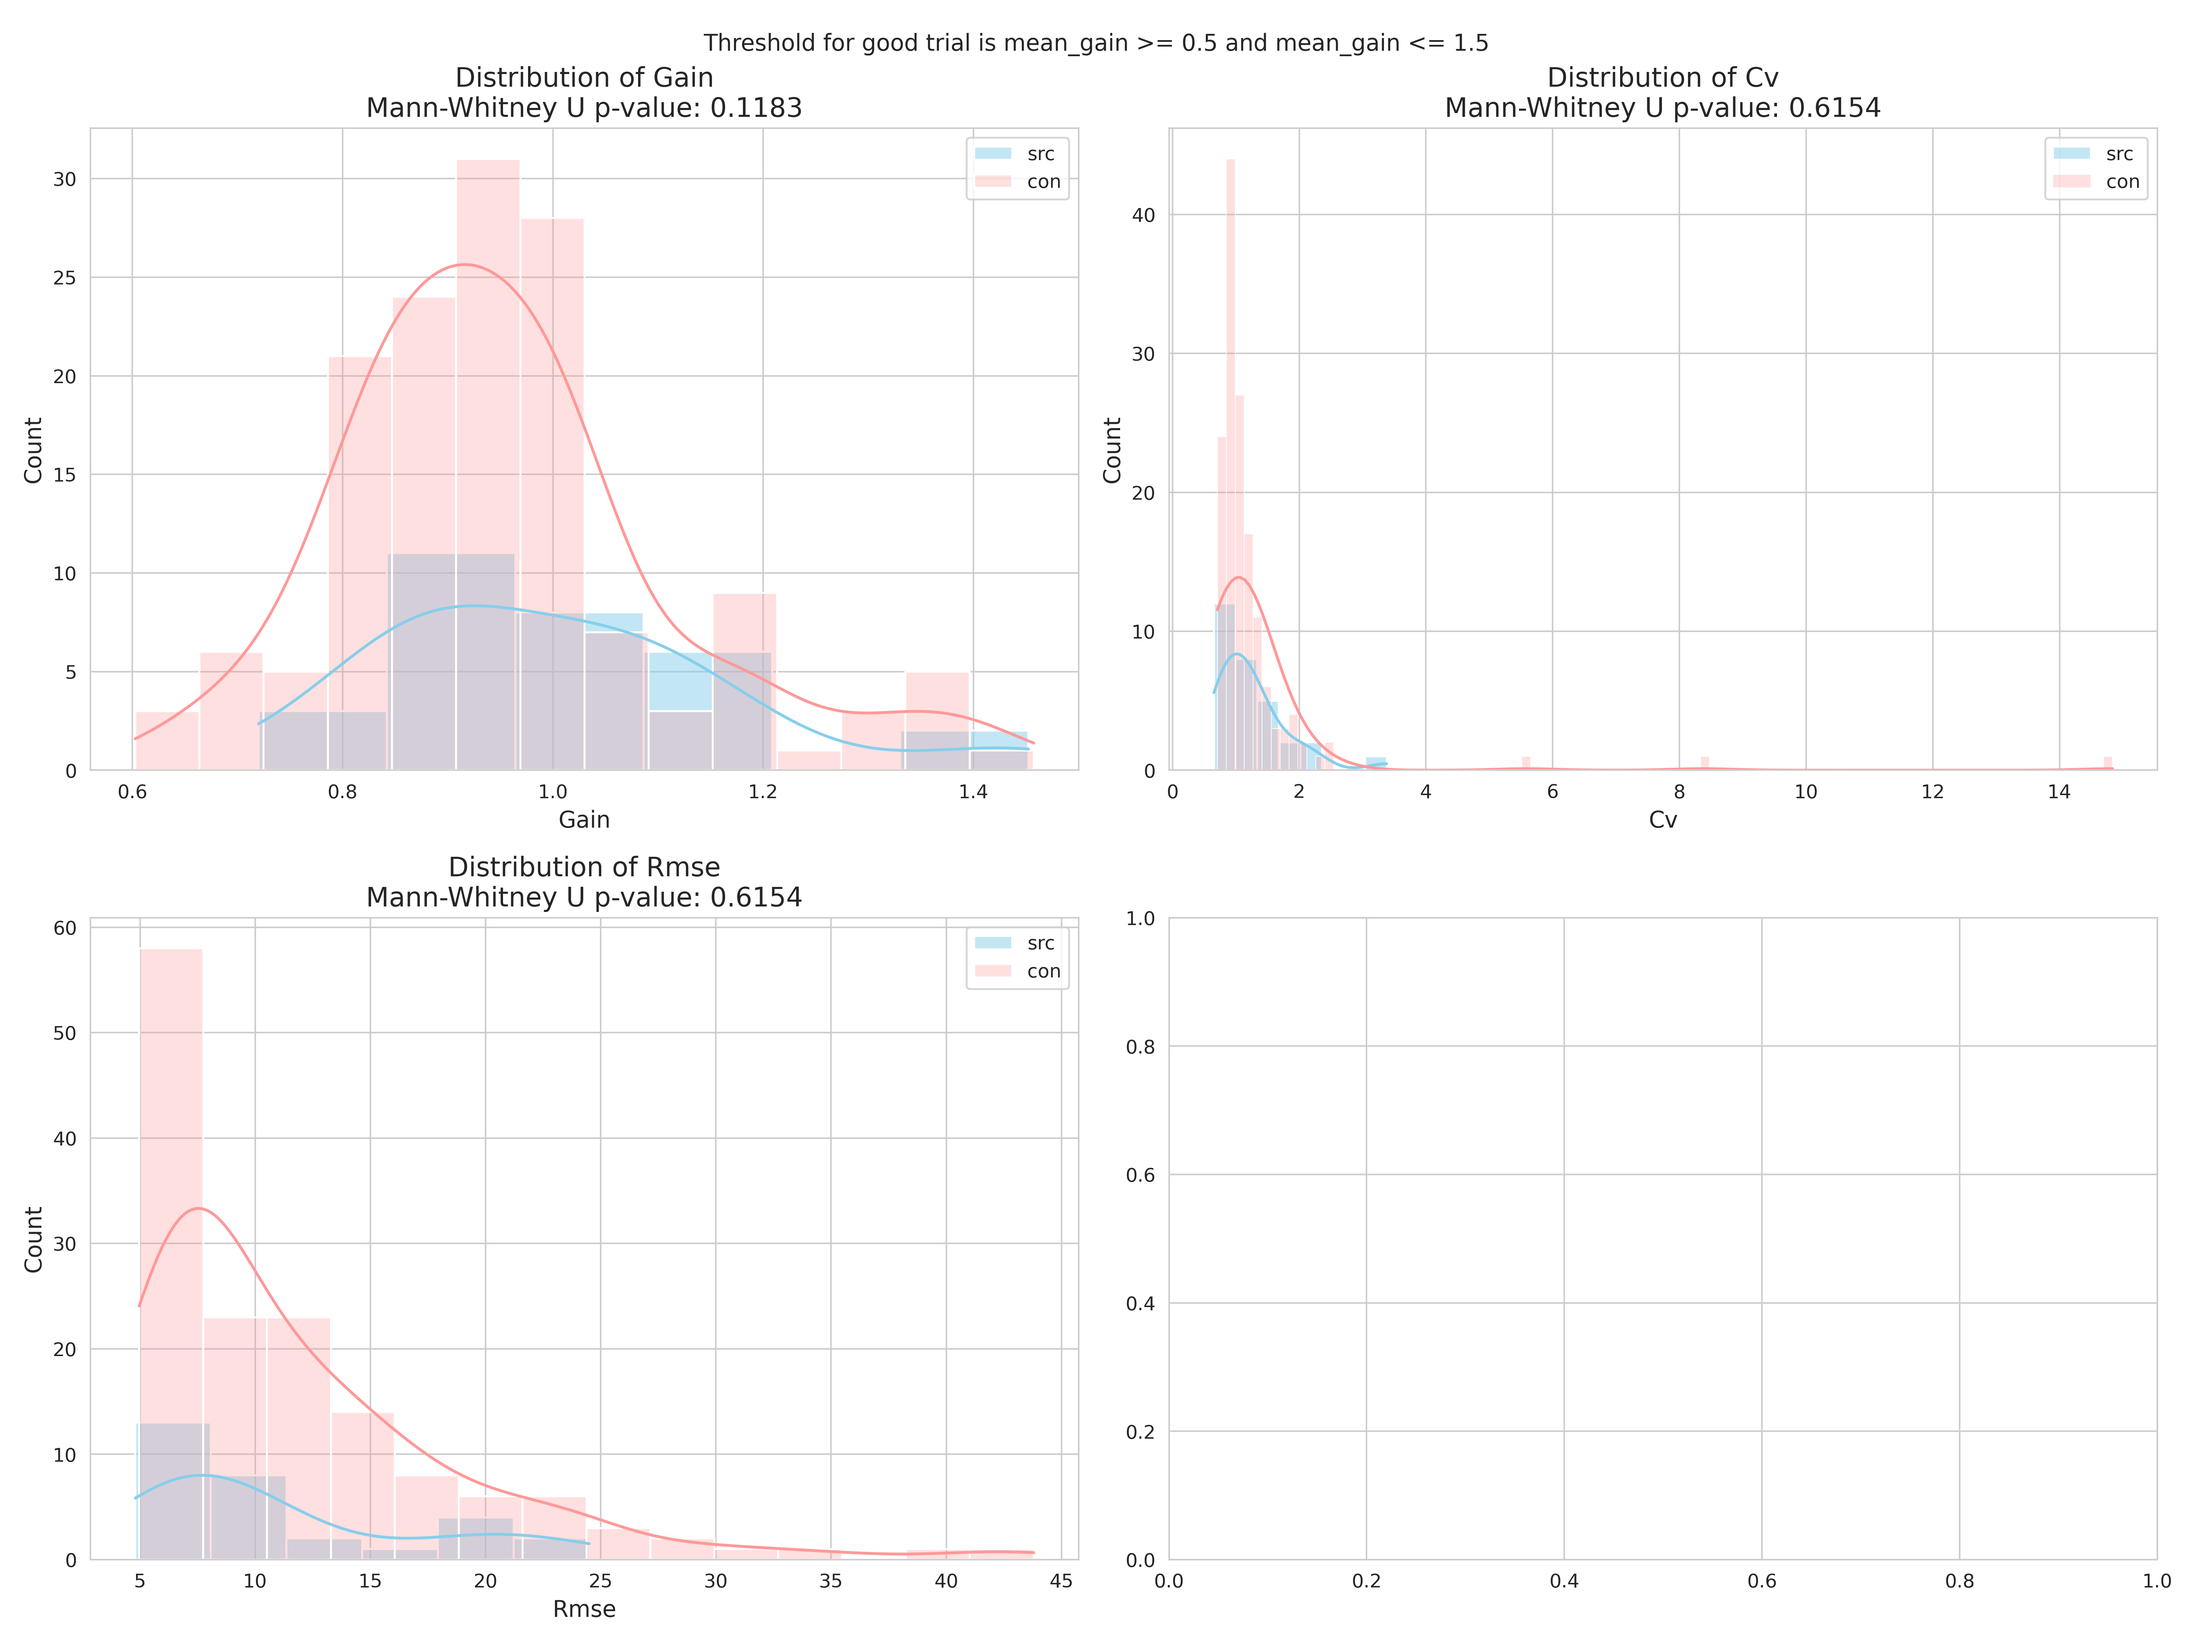
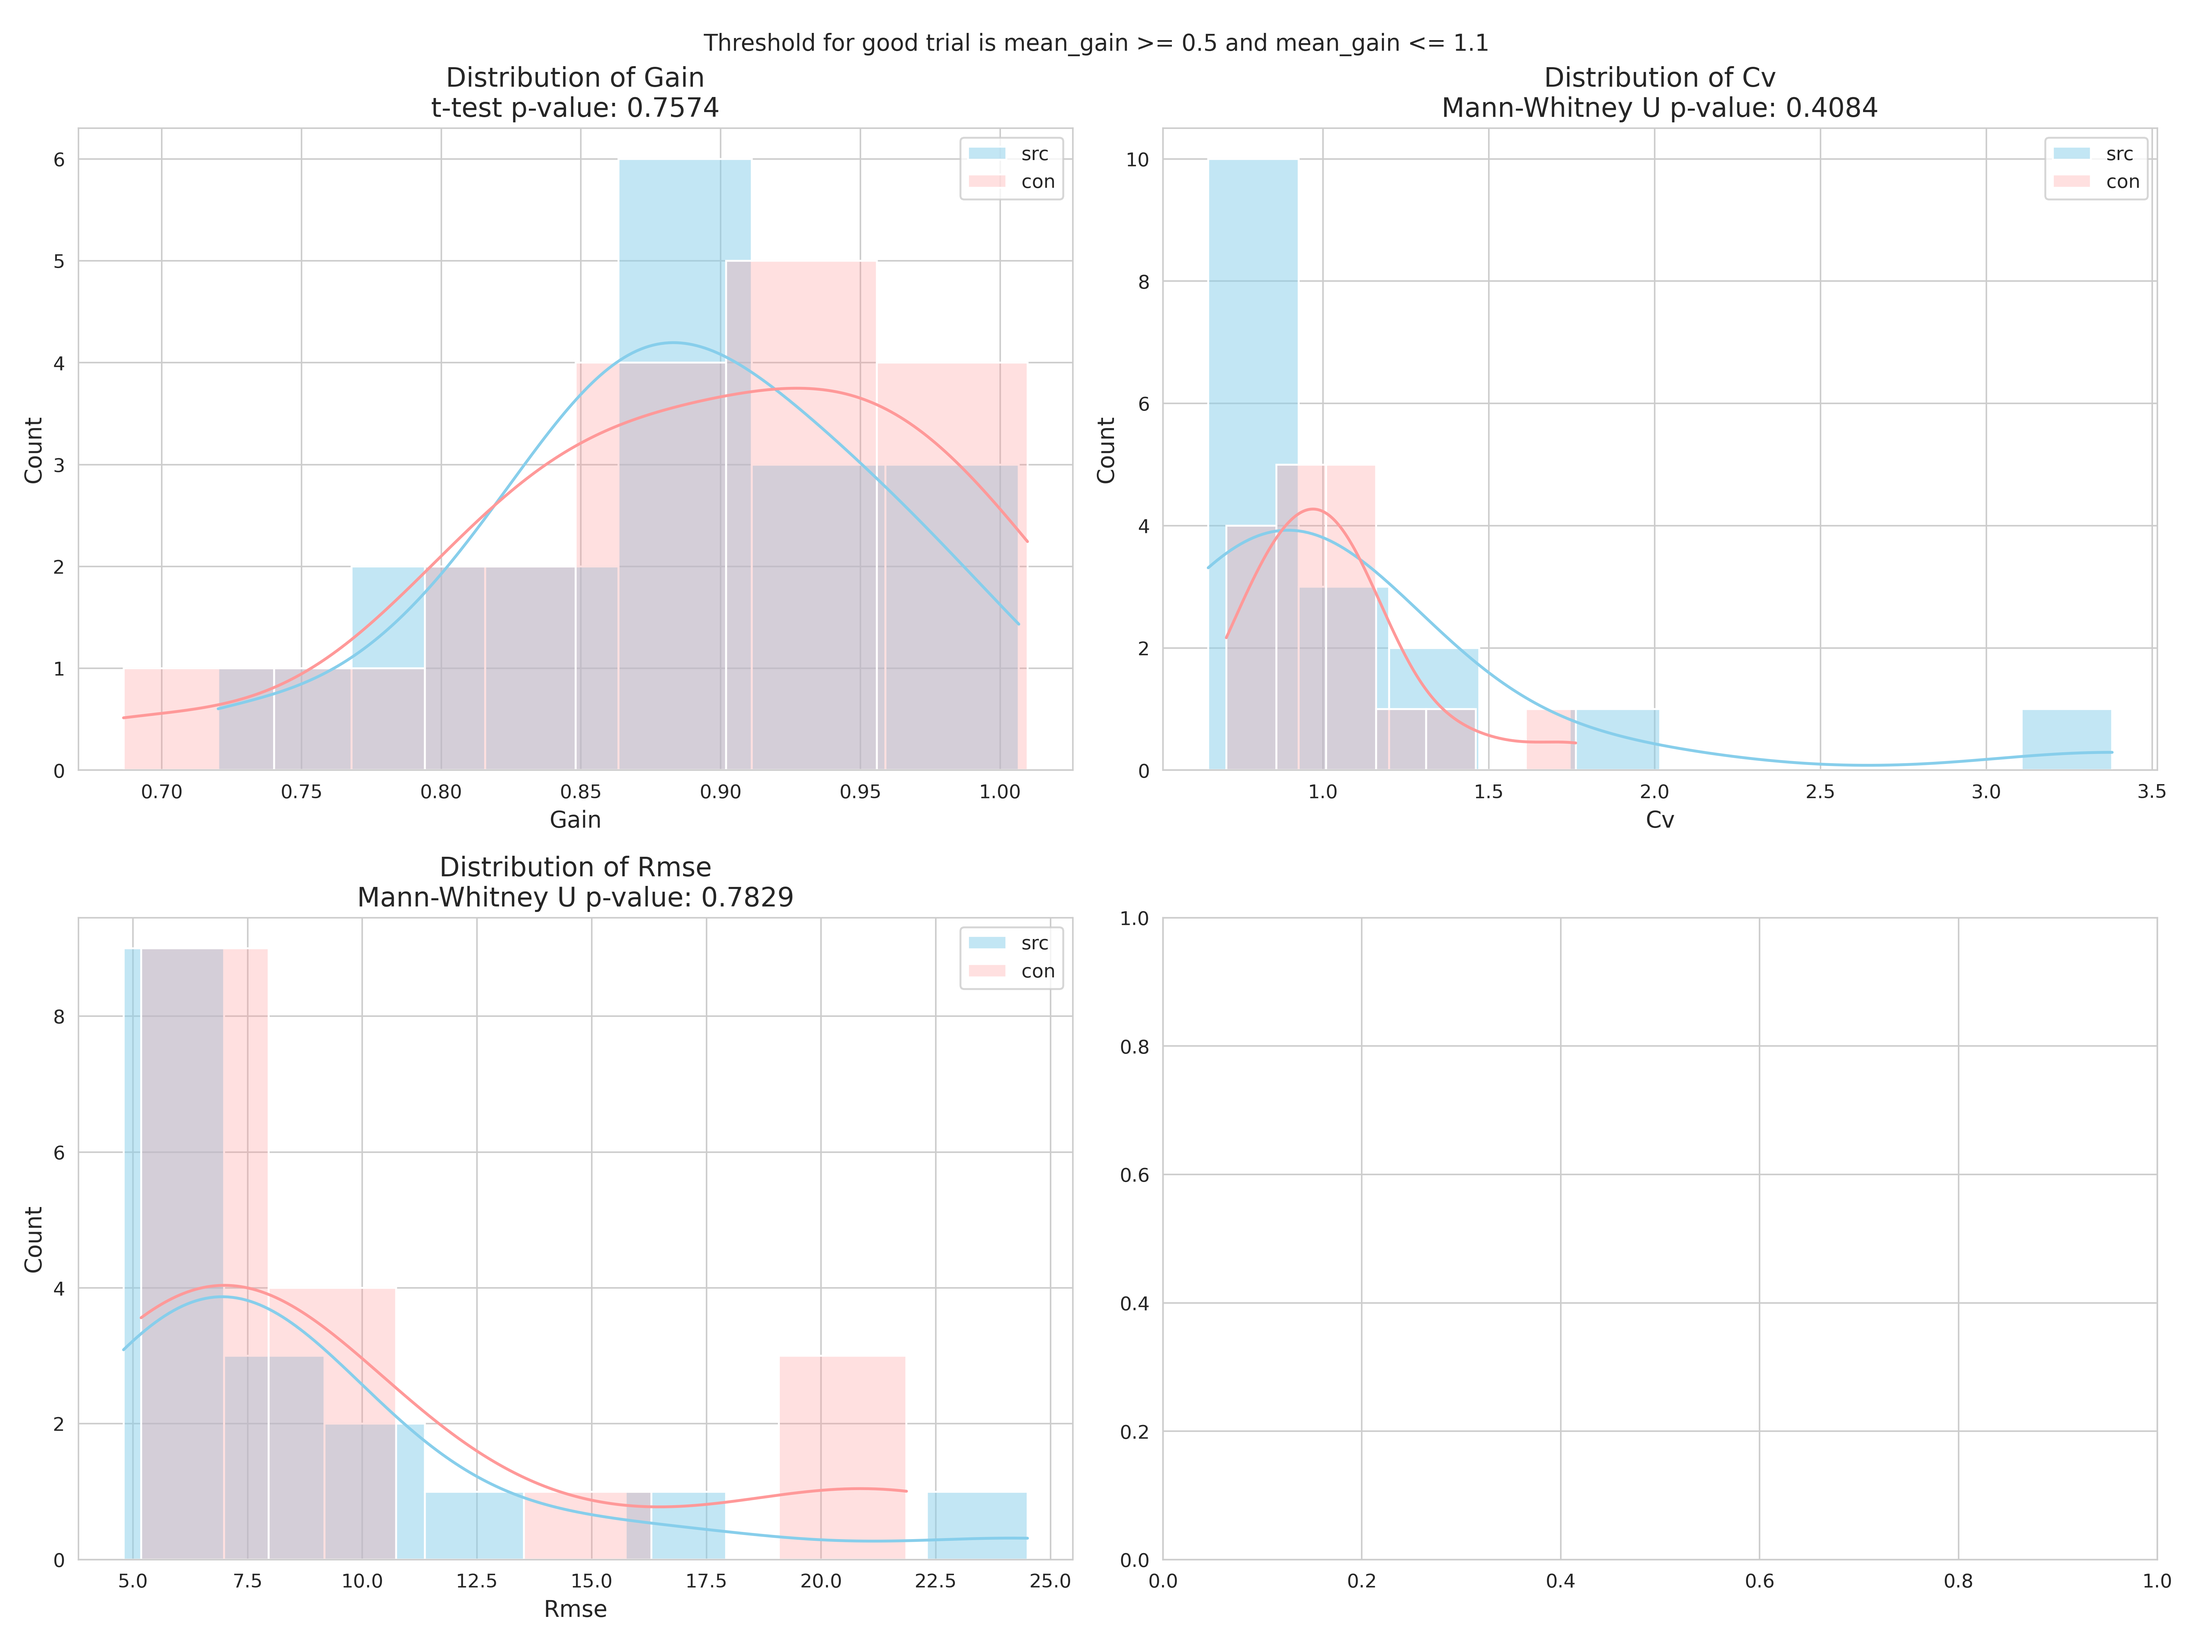
ADD: start VOR

diff --git a/vr_voms_vor.py b/vr_voms_vor.py
@@ -1,0 +1,148 @@
+import os
+import numpy as np
+import pandas as pd
+import matplotlib.pyplot as plt
+from mpl_toolkits.mplot3d import Axes3D
+from scipy.signal import find_peaks, square, savgol_filter
+from sklearn.metrics import mean_squared_error, r2_score
+from scipy.optimize import curve_fit
+from colorama import Fore, Style
+from tqdm import tqdm
+from matplotlib.animation import FuncAnimation
+from PIL import Image, ImageSequence
+from sys import argv
+from matplotlib.colors import ListedColormap
+import matplotlib.animation as animation
+from vr_voms_utils import find_files, az_el, az_el_dot_world, az_el_dot_local, detect_square_wave_periods, extract_con_and_control
+import argparse
+from scipy.spatial.distance import cdist
+
+plt.rcParams.update({
+    'font.size': 14,
+    'font.weight': 'bold',
+    'axes.labelweight': 'bold',
+    'axes.titlesize': 14,
+    'axes.titleweight': 'bold',
+    'legend.fontsize': 14,
+    'legend.title_fontsize': 14,
+    'xtick.labelsize': 14,
+    'ytick.labelsize': 14,
+    'lines.linewidth': 2
+})
+
+class vrVoms():
+    def __init__(self,check_trials=False, methods_plot=False) -> None:
+        print('vrVoms VOR Class')
+        self.all_files_dict = find_files(os.path.join(os.getcwd(),'2023_2024'), "experiment_data_pID")
+        self.check_trials = check_trials
+        self.methods_plot = methods_plot
+        self.src, self.control = extract_con_and_control()
+        prefix = '/home/brianszekely/Desktop/ProjectsResearch/murray_lab/vr_eye/2023_2024/'
+        self.src = [prefix + file_name for file_name in self.src]
+        self.control = [prefix + file_name for file_name in self.control]
+
+    def parse_condition_per(self,file):
+            data = pd.read_csv(file)
+            if data['Experiment'].iloc[0] == "VOR":
+                self.exp_df = data
+                all_vor = self.VOR(file)
+                # plt.figure()
+                # plt.plot(self.exp_df['CyclopeanEyeDirection.x'],label='hor')
+                # plt.plot(self.exp_df['CyclopeanEyeDirection.y'],label='vert')
+                # plt.plot(self.exp_df['CyclopeanEyeDirection.z'],label='z')
+                # plt.legend()
+                # plt.show()
+                # plt.close()
+                return all_vor
+            else:
+                return None
+    
+    def VOR(self,file):
+        """
+        elevation needs to be inversed
+        find the average amount of lag between the head and eye data using find peaks
+        phase shift the data backwards by that amount of samples. 
+        fill the rest with interpolation
+        """
+        self.exp_df = az_el(self.exp_df)
+
+        self.exp_df['HeadOrientation.x'] = self.exp_df['HeadOrientation.x'].apply(lambda x: x - 360 if x > 100 else x)
+        self.exp_df['HeadOrientation.y'] = self.exp_df['HeadOrientation.y'].apply(lambda x: x - 360 if x > 100 else x)
+        self.exp_df['HeadOrientation.z'] = self.exp_df['HeadOrientation.z'].apply(lambda x: x - 360 if x > 100 else x)
+        
+        self.exp_df['HeadOrientation.x'] = self.exp_df['HeadOrientation.x'] - self.exp_df['HeadOrientation.x'].mean()
+        self.exp_df['HeadOrientation.y'] = self.exp_df['HeadOrientation.y'] - self.exp_df['HeadOrientation.y'].mean()
+        self.exp_df['HeadOrientation.z'] = self.exp_df['HeadOrientation.z'] - self.exp_df['HeadOrientation.z'].mean()
+
+        if 'CyclopeanEyeDirection.az_filter' not in self.exp_df.columns:
+            self.exp_df['CyclopeanEyeDirection.az_filter'] = savgol_filter(-self.exp_df['CyclopeanEyeDirection.az'],
+                                                                    window_length=23,polyorder=2)
+            self.exp_df['CyclopeanEyeDirection.el_filter'] = savgol_filter(self.exp_df['CyclopeanEyeDirection.el'],
+                                                                window_length=23,polyorder=2)
+        
+        az_vel = self.exp_df['CyclopeanEyeDirection.az_filter'].diff().to_numpy() / np.mean(np.diff(self.exp_df['TimeStamp']))
+        az_vel = np.nan_to_num(az_vel, nan=0.0)
+        el_vel = self.exp_df['CyclopeanEyeDirection.el_filter'].diff().to_numpy() / np.mean(np.diff(self.exp_df['TimeStamp']))
+        el_vel = np.nan_to_num(el_vel, nan=0.0)
+
+        pitch_vel = self.exp_df['HeadOrientation.x'].diff().to_numpy() / np.mean(np.diff(self.exp_df['TimeStamp']))
+        pitch_vel = np.nan_to_num(pitch_vel, nan=0.0)
+        yaw_vel = self.exp_df['HeadOrientation.y'].diff().to_numpy() / np.mean(np.diff(self.exp_df['TimeStamp']))
+        yaw_vel = np.nan_to_num(yaw_vel, nan=0.0)
+
+        what = np.nanmean(self.exp_df['CyclopeanEyeDirection.az_filter'] / self.exp_df['HeadOrientation.x'])
+        what2 = np.nanmean(self.exp_df['CyclopeanEyeDirection.el_filter'] / self.exp_df['HeadOrientation.y'])
+        # print(what2)
+        # print(what)
+        # input()
+        if not any(substring in file for substring in ['CON', 'PC', 'C1', 'SF']):
+            plt.plot(self.exp_df['CyclopeanEyeDirection.az_filter'],label='azimuth')
+            plt.plot(self.exp_df['CyclopeanEyeDirection.el_filter'],label='elevation')
+            plt.plot(self.exp_df['HeadOrientation.x'],label='pitch')
+            plt.plot(self.exp_df['HeadOrientation.y'],label='yaw')
+            plt.title(file)
+            plt.legend()
+            plt.show()
+
+    def run_analysis(self):
+        if self.check_trials:
+            #concussion
+            vor_dict_src = []
+            for dir in tqdm(self.src):
+                files = find_files(dir, "experiment_data_pID")
+                # file_paths = next(iter(files.values()))
+                for file_paths in files.values():
+                    for file in file_paths:
+                        try:
+                            vor_dict = self.parse_condition_per(file)
+                            if vor_dict != None:
+                                vor_dict_src.append(vor_dict)
+                        except Exception as e:
+                            print(f'{Fore.RED}file is not included in analysis: {e}{Style.RESET_ALL}')
+            pd.DataFrame(vor_dict_src).to_csv('src_vor.csv',index=False)
+
+            #control
+            vor_dict_con = []
+            for dir in tqdm(self.control):
+                files = find_files(dir, "experiment_data_pID")
+                for file_paths in files.values():
+                    for file in file_paths:
+                        try:
+                            vor_dict = self.parse_condition_per(file)
+                            if vor_dict != None:
+                                vor_dict_con.append(vor_dict)
+                        except Exception as e:
+                            print(f'{Fore.RED}file is not included in analysis: {e}{Style.RESET_ALL}')
+            pd.DataFrame(vor_dict_con).to_csv('con_vor.csv',index=False)
+
+def main():
+    parser = argparse.ArgumentParser(description='Process Saccades from VOMS.')
+    parser.add_argument('--check_trials', action='store_true', help='Check for good and bad trials.')
+    parser.add_argument('--methods_plot', action='store_true', help='Methods plot for publication and grants.')
+    args = parser.parse_args()
+
+    vrVoms(check_trials=args.check_trials, 
+           methods_plot=args.methods_plot).run_analysis()
+
+if __name__ == "__main__":
+    main()

diff --git a/results.py b/results.py
@@ -69,8 +69,8 @@ def main():
 
     #equal samplesbetween groups
     min_samples = min(len(df_con_sp), len(df_src_sp))
-    # df_con_sp = df_con_sp.sample(n=min_samples, random_state=42)
-    # df_src_sp = df_src_sp.sample(n=min_samples, random_state=42)
+    df_con_sp = df_con_sp.sample(n=min_samples, random_state=42)
+    df_src_sp = df_src_sp.sample(n=min_samples, random_state=42)
 
     sns.set_style("whitegrid")
     sns.set_palette("deep")
@@ -80,7 +80,7 @@ def main():
     num_rows = int(ceil(num_plots / num_cols))  #num rows
 
     fig, axes = plt.subplots(num_rows, num_cols, figsize=(16, 6 * num_rows))
-    fig.suptitle('Threshold for good trial is mean_gain >= 0.5 and mean_gain <= 1.5')
+    fig.suptitle('Threshold for good trial is mean_gain >= 0.5 and mean_gain <= 1.1')
     axes = axes.flatten()
 
     for i, column in enumerate(columns_to_plot):

diff --git a/vr_voms_smooth_pursuit.py b/vr_voms_smooth_pursuit.py
@@ -196,12 +196,12 @@ class vrVoms():
         variability = std_dev / mean_gain
         rms_error = rmse(sp_vel_dot,norm_eye)
 
-        #here is my range that I am making up: 0.6 and 1.2. based on a moderate range of 
+        #here is my range that I am making up: 0.5 and 1.1. based on a moderate range of 
         #possibilites, as normative gain is usually between 0.8 - 1.0
         print('======================')
         print(mean_gain)
         print('======================')
-        if mean_gain >= 0.5 and mean_gain <= 1.5:
+        if mean_gain >= 0.5 and mean_gain <= 1.01:
             #Save data if condition met
             sp_dict['ID'] = self.exp_df['ParticipantID'].iloc[0]
             sp_dict['gain'] = mean_gain
